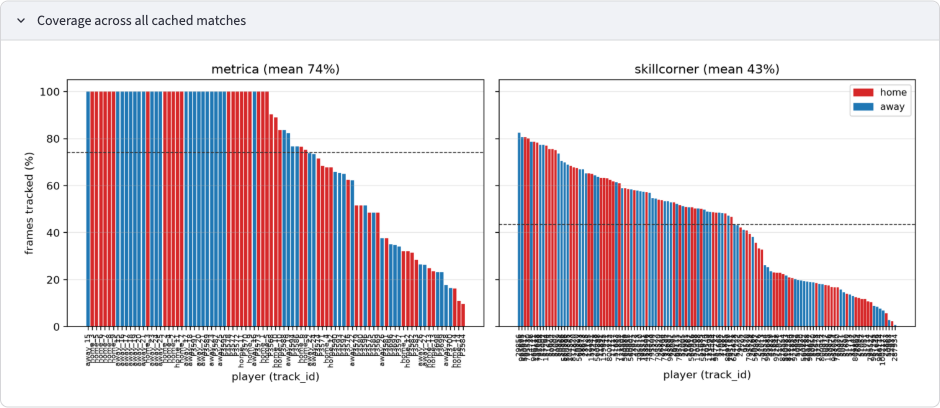
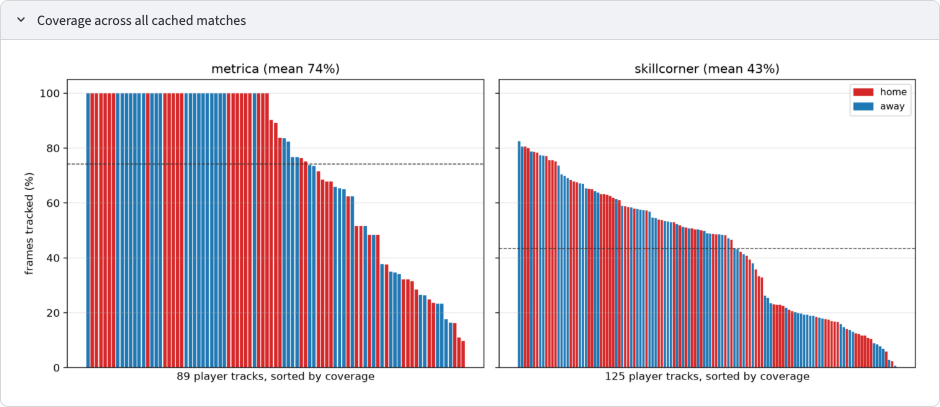
feat: update references and citations in reports and code; enhance visualization handling for gaps

diff --git a/src/ftm/viz.py b/src/ftm/viz.py
@@ -30,8 +30,21 @@ PROVIDER_COLORS: dict[str, str] = {"metrica": "#2ca02c", "skillcorner": "#9467bd
 _FALLBACK_COLOR = "#7f7f7f"
 
 
+# Above this many bars, per-player tick labels overlap into an unreadable band.
+_MAX_BAR_LABELS = 30
+
+
 def _team_color(team) -> str:
     return TEAM_COLORS.get(str(team), _FALLBACK_COLOR)
+
+
+def _break_at_gaps(t, *series, max_gap_s: float) -> tuple[np.ndarray, ...]:
+    """Insert a NaN wherever consecutive ``t`` values are more than
+    ``max_gap_s`` apart, so matplotlib lifts the pen instead of drawing a
+    straight line across a stoppage. Returns ``(t, *series)`` as floats."""
+    t = np.asarray(t, dtype=float)
+    breaks = np.flatnonzero(np.diff(t) > max_gap_s) + 1
+    return tuple(np.insert(np.asarray(a, dtype=float), breaks, np.nan) for a in (t, *series))
 
 
 def _make_pitch() -> Pitch:
@@ -82,14 +95,13 @@ def _draw_centroid_trace(
         rows = rows.sort_values("timestamp")
         if rows.empty:
             continue
-        x = rows["cx_m"].to_numpy(dtype=float)
-        y = rows["cy_m"].to_numpy(dtype=float)
         # Shape rows exist only while the ball is alive: break the line at
         # stoppages instead of drawing a straight jump across them.
-        breaks = np.flatnonzero(np.diff(rows["timestamp"].to_numpy(dtype=float)) > max_gap_s) + 1
+        _, x, y = _break_at_gaps(rows["timestamp"], rows["cx_m"], rows["cy_m"],
+                                 max_gap_s=max_gap_s)
         color = TEAM_COLORS[team]
-        ax.plot(np.insert(x, breaks, np.nan), np.insert(y, breaks, np.nan), color=color,
-                linewidth=1.0, alpha=0.55, zorder=3, label=f"{team} centroid")
+        ax.plot(x, y, color=color, linewidth=1.0, alpha=0.55, zorder=3,
+                label=f"{team} centroid")
         if frame_id is not None and "frame_id" in rows.columns:
             now = rows[rows["frame_id"] == frame_id]
             if not now.empty:
@@ -201,6 +213,7 @@ def time_series(
     *,
     columns: list[str],
     window: tuple[float, float] | None = None,
+    max_gap_s: float = 1.0,
 ) -> Figure:
     """Line-height / width / compactness over time, both teams.
 
@@ -215,7 +228,10 @@ def time_series(
     ``shape_frame``. With a single period this is just ``timestamp``.
     ``window`` is applied on that x axis. Each (team, period) is drawn as
     its own line, so nothing is connected across a period boundary;
-    boundaries get a dashed vertical rule.
+    boundaries get a dashed vertical rule. Within a period the line is
+    also broken wherever rows are more than ``max_gap_s`` apart: shape
+    metrics exist only while the ball is in play, and a straight line
+    across a stoppage would be invented data.
 
     Returns the ``Figure``.
     """
@@ -242,8 +258,9 @@ def time_series(
         for team in ("home", "away"):
             team_df = df[df["team"].astype(str) == team]
             for i, (_, seg) in enumerate(team_df.groupby("period", sort=True)):
+                t, y = _break_at_gaps(seg["_t"], seg[col], max_gap_s=max_gap_s)
                 ax.plot(
-                    seg["_t"], seg[col], color=TEAM_COLORS[team], linewidth=1.2,
+                    t, y, color=TEAM_COLORS[team], linewidth=1.2,
                     label=team if i == 0 else None,
                 )
         for b in boundaries:
@@ -315,7 +332,9 @@ def coverage_bar(coverage: pd.DataFrame) -> Figure:
 
     ``coverage`` has columns provider, track_id, team, coverage_pct
     (0-100). One subplot per provider (sorted by coverage, descending),
-    bars coloured by team, shared 0-100 y axis. Makes the "broadcast data
+    bars coloured by team, shared 0-100 y axis. Track ids label the bars
+    only while they fit (``_MAX_BAR_LABELS``); beyond that the axis just
+    says how many tracks there are. Makes the "broadcast data
     drops players" point visually for the README coverage section.
     """
     providers = list(dict.fromkeys(coverage["provider"].astype(str)))
@@ -331,11 +350,15 @@ def coverage_bar(coverage: pd.DataFrame) -> Figure:
         )
         x = np.arange(len(sub))
         ax.bar(x, sub["coverage_pct"], color=[_team_color(t) for t in sub["team"]], width=0.8)
-        ax.set_xticks(x, sub["track_id"].astype(str), rotation=90, fontsize=7)
         mean = float(sub["coverage_pct"].mean()) if len(sub) else float("nan")
         ax.axhline(mean, color="#333333", linestyle="--", linewidth=0.8)
         ax.set_title(f"{provider} (mean {mean:.0f}%)")
-        ax.set_xlabel("player (track_id)")
+        if len(sub) <= _MAX_BAR_LABELS:
+            ax.set_xticks(x, sub["track_id"].astype(str), rotation=90, fontsize=7)
+            ax.set_xlabel("player (track_id)")
+        else:
+            ax.set_xticks([])
+            ax.set_xlabel(f"{len(sub)} player tracks, sorted by coverage")
         ax.set_ylim(0, 105)
         ax.grid(axis="y", alpha=0.3)
     axes[0].set_ylabel("frames tracked (%)")

diff --git a/scripts/validate.py b/scripts/validate.py
@@ -96,8 +96,12 @@ FBF_CENTROID_X = -18.4
 REFERENCES = [
     {
         "metrics": ["total_distance_km"],
-        "source": "Bradley, P. S. et al. (2009). High-intensity running in English FA Premier "
-        "League soccer matches. Journal of Sports Sciences, 27(2), 159-168.",
+        "source": "Collins, J. J. et al. (2025). The physical demands of Major League Soccer "
+        "match-play with specific reference to high-intensity activity by position, venue "
+        "and opposition quality. PLoS ONE, 20(10), e0334460. Second Spectrum optical "
+        "tracking (25 Hz), outfield players completing >=85 min: 9.95 +/- 0.99 km per match "
+        "(centre-back 9.43 +/- 0.70 up to central midfielder 10.51 +/- 1.00). The configured "
+        "9-12 km band sits within roughly mean +/- 2 SD across positions.",
     },
     {
         "metrics": ["hsr_share_of_distance_pct"],
@@ -108,12 +112,6 @@ REFERENCES = [
         "total distance, i.e. ~8-14% at >=19.8 km/h as measured here. Those are study "
         "means; the configured per-player band is deliberately wider because individual "
         "players (e.g. central defenders) vary more than averages.",
-    },
-    {
-        "metrics": ["total_distance_km"],
-        "source": "Di Salvo, V. et al. (2007). Performance characteristics according to "
-        "playing position in elite soccer. International Journal of Sports Medicine, "
-        "28(3), 222-227.",
     },
     {
         "metrics": ["sprints_per_match"],
@@ -129,9 +127,14 @@ REFERENCES = [
         "~3x higher counts, so they are not comparable.",
     },
     {
-        "metrics": ["top_speed_mps"],
-        "source": "Standard sports-science ranges for elite match play (peak outfield "
-        "speeds of roughly 8-11 m/s); band as configured in configs/metrics.yaml.",
+        "metrics": ["top_speed_mps", "gk_top_speed_mps"],
+        "source": "Silva, H. et al. (2024). Peak match sprinting speed during soccer matches: "
+        "analysing the pre- and post-peak speed dynamics. Biology of Sport, 42(1), 193-200. "
+        "doi:10.5114/biolsport.2024.136089. 10 Hz GNSS, Brazilian first division, 90 match "
+        "peaks: position means 29.1-31.6 km/h (8.1-8.8 m/s), SD 1.6-2.6 km/h. The configured "
+        "8-11 m/s band's floor sits at the centre-back mean, so a genuinely slow defender "
+        "can fall just below it; the ceiling is well above mean + 2 SD (~10.2 m/s) and "
+        "exists to catch tracking glitches, with 12 m/s the hard clip.",
     },
     {
         "metrics": ["*"],

diff --git a/tests/test_viz.py b/tests/test_viz.py
@@ -155,6 +155,15 @@ def test_time_series_window_slices():
         assert x.min() >= 2 and x.max() <= 5
 
 
+def test_time_series_breaks_line_at_stoppages():
+    shape = _shape_frame(periods=(1,), n=10)
+    shape = shape[~shape["frame_id"].isin([4, 5, 6])]  # 2 s stoppage, 0.5 s steps elsewhere
+    ax = viz.time_series(shape, columns=["width_m"]).axes[0]
+    home = next(ln for ln in ax.get_lines() if ln.get_label() == "home")
+    x = np.asarray(home.get_xdata(), dtype=float)
+    assert np.isnan(x).sum() == 1 and len(x) == 8  # 7 rows + 1 break
+
+
 def test_time_series_rejects_unknown_column():
     with pytest.raises(KeyError):
         viz.time_series(_shape_frame(), columns=["nope"])
@@ -177,6 +186,16 @@ def test_coverage_bar_one_axis_per_provider():
     assert len(fig.axes) == 2
     heights = [p.get_height() for p in fig.axes[1].patches]
     assert heights == sorted(heights, reverse=True)
+
+
+def test_coverage_bar_drops_track_labels_when_they_cannot_fit():
+    many = pd.DataFrame({"provider": "p", "track_id": [f"t{k}" for k in range(40)],
+                         "team": "home", "coverage_pct": np.linspace(100, 10, 40)})
+    ax = viz.coverage_bar(many).axes[0]
+    assert ax.get_xticks().size == 0
+    assert "40 player tracks" in ax.get_xlabel()
+    few = viz.coverage_bar(_coverage()).axes[0]
+    assert few.get_xticks().size == 6
 
 
 def test_save_figure_writes_png(tmp_path):

diff --git a/README.md b/README.md
@@ -120,12 +120,20 @@ checked for all 7 matches.
 | Team compactness (median hull), Metrica | 300–1500 m² | 6 teams | 6 | — | 862–1032 |
 | Team compactness (median hull), SkillCorner | 300–1500 m² | 8 teams | 8 | — | 364–499 |
 
-The sprint band comes from Collins et al. 2025 (PLoS ONE 20(10): e0334460),
-which uses the same definition as here (above 25.2 km/h for at least 1 s,
-25 Hz optical tracking): 10.3 ± 5.4 sprints per full match, from about 7.6
-for centre-backs to 13.9 for wide midfielders. Studies without a minimum
-duration report about 3 times as many, so they aren't comparable. SkillCorner
-hulls are smaller because players off camera are missing from the shape.
+Where the bands come from (full citations in `validation.json`):
+
+| Band | Source | What it reports |
+|---|---|---|
+| Distance 9–12 km | Collins et al. 2025, *PLoS ONE* 20(10) e0334460 (MLS, 25 Hz optical tracking) | 9.95 ± 0.99 km per full match; centre-backs 9.43, central midfielders 10.51 |
+| Sprints 2–25 | same paper, same sprint definition as here (> 25.2 km/h for ≥ 1 s) | 10.3 ± 5.4 per match; centre-backs 7.6 up to wide midfielders 13.9 |
+| HSR share 5–15% | Gualtieri et al. 2023, *Front. Sports Act. Living* 5:1116293 (systematic review) | about 8–14% of distance above 19.8 km/h |
+| Top speed 8–11 m/s | Silva et al. 2024, *Biology of Sport* 42(1) 193–200 (10 Hz GNSS) | position means 8.1–8.8 m/s (29.1–31.6 km/h) |
+
+The bands are deliberately a little wider than the study averages, because
+individual players vary more than averages do. Studies that count sprints
+without a minimum duration report about 3 times as many, so they aren't
+comparable. SkillCorner hulls are smaller because players off camera are
+missing from the shape.
 
 What the failures mean:
 - **HSR share (12 fail):** most are centre-backs, who run fast less than other
@@ -134,8 +142,10 @@ What the failures mean:
   band comes from Gualtieri et al. 2023, whose study means work out to about
   8–14%.
 - **Top speed (5 fail):** 2 players hit the 12 m/s clip ceiling, which means a
-  tracking error survived glitch rejection. 2 are just under 8 m/s. 1 is
-  11.2 m/s.
+  tracking error survived glitch rejection. 2 are just under 8 m/s (7.92 and
+  7.94); the band's floor is the centre-back average in Silva et al., so a
+  player who never makes a long sprint can land there honestly. 1 is 11.2 m/s,
+  above anything in that study, so it's more likely a tracking artefact.
 - **Distance (2 fail):** 12.1 and 12.5 km, both box-to-box midfielders in
   Metrica 3. That match runs faster for everyone (119 m/min against 109 in the
   other two), even under 5 s of smoothing, so it's real movement, not noise.
@@ -191,7 +201,14 @@ without its threshold can't be compared with another. Full grid:
 
 Coverage is the share of the match's frames in which a player was tracked.
 Metrica tracks the whole pitch, so starters are near 100% and the lower values
-are mostly substitutes. SkillCorner tracks from the TV broadcast, so players
+are mostly substitutes. Metrica 3 is lower overall (62.9%) because it has more
+partial tracks.
+
+**Data quirk (Metrica 3).** Two players sometimes share exactly the same
+coordinates, in runs of up to about 12 s, even across teams. It looks like the
+tracker merged them while one hid the other. The merged players are right next
+to each other, so it moves anyone's distance by at most about 1%. It's noted,
+not corrected: splitting them again would mean inventing positions. SkillCorner tracks from the TV broadcast, so players
 drop out whenever the camera isn't on them:
 
 ![SkillCorner broadcast frame](docs/images/pitch_skillcorner.png)
